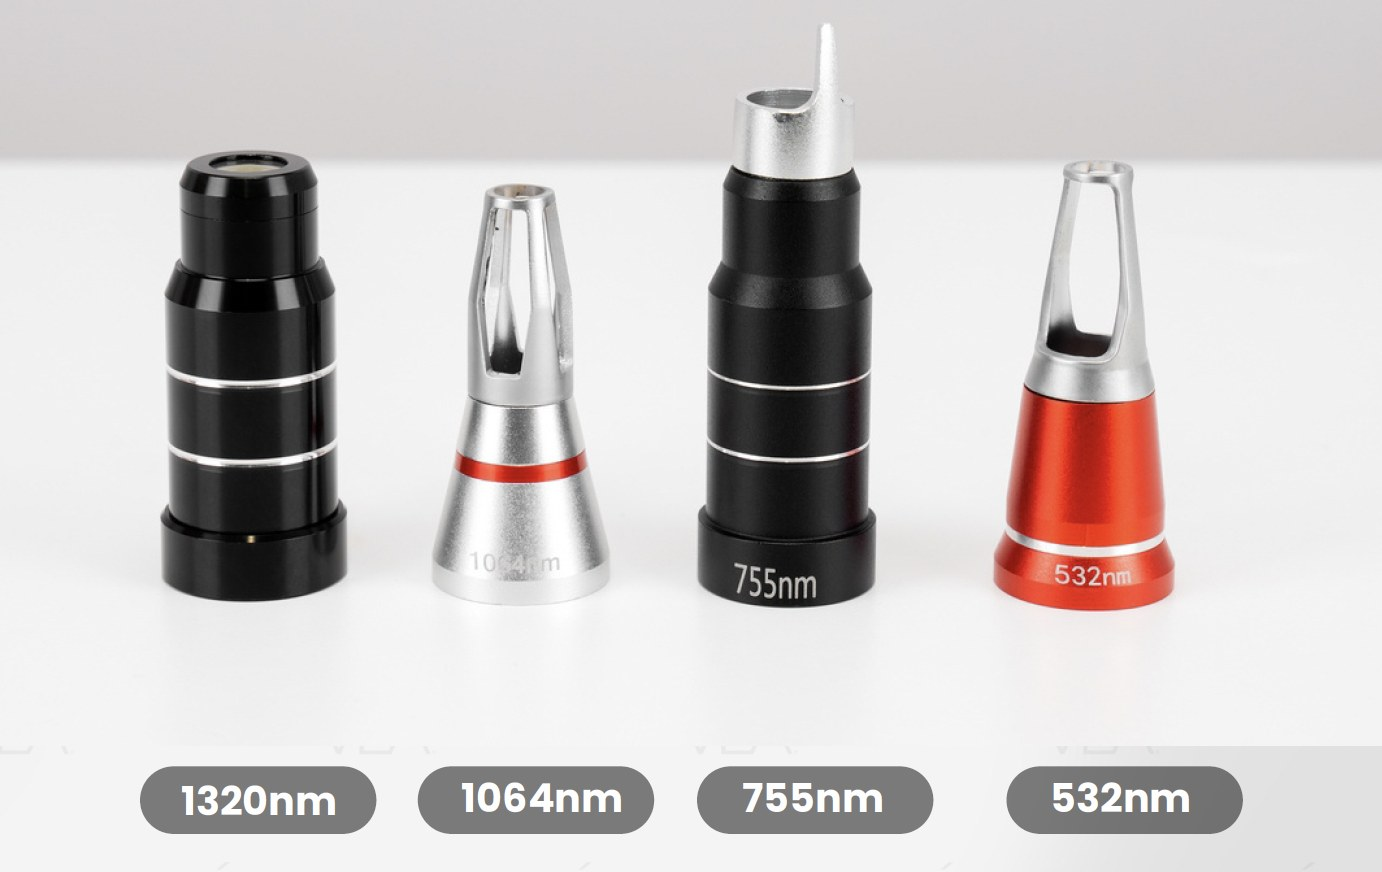
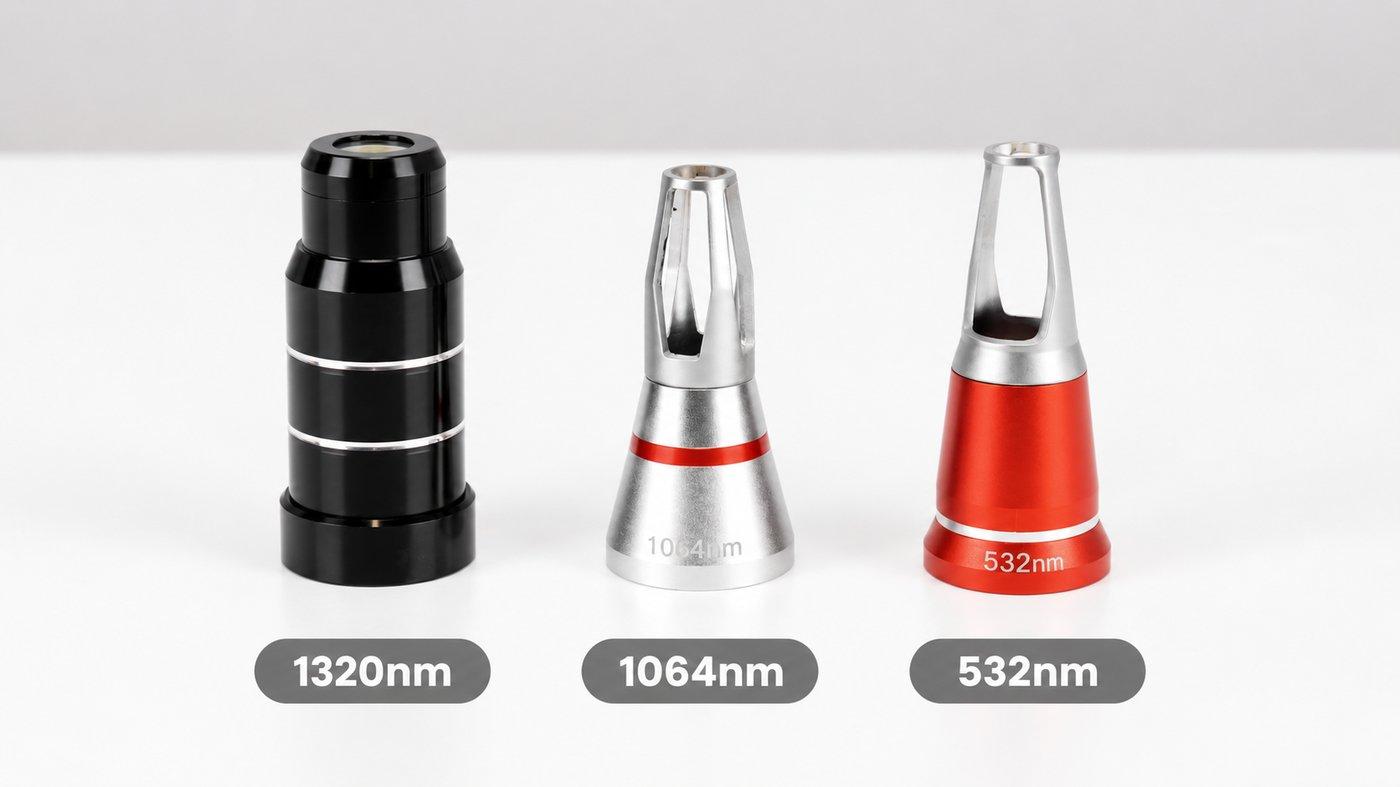
Add files via upload

diff --git a/index.html b/index.html
@@ -106,8 +106,8 @@
       </div>
       <div class="hero-visual reveal reveal-delay-2">
         <div class="hero-visual-frame">
-          <div class="hero-visual-label"><span>Facial Express</span><span>Clinical Innovation Lab</span></div>
-          <img class="hero-portfolio-img" src="hero-portfolio.jpg" alt="Tratamiento real con tecnología VÉA en Facial Express" width="1122" height="1402" loading="eager">
+          <div class="hero-visual-label"><span>Tres tecnologías</span><span>Un mismo criterio clínico</span></div>
+          <img class="hero-portfolio-img" src="home-hero.jpg" alt="Portafolio VÉA Medical: VÉA Intelligence, VÉA Skin y VÉA Pigment" width="980" height="1225" loading="eager">
         </div>
       </div>
     </div>
@@ -121,7 +121,7 @@
       </div>
       <div class="product-grid">
         <article class="product-card">
-          <figure><img src="product-intelligence.jpg" alt="VÉA Intelligence" loading="lazy"></figure>
+          <figure><img src="home-intelligence.jpg" alt="VÉA Intelligence" loading="lazy"></figure>
           <div class="product-body">
             <span class="num">01</span>
             <h3>VÉA Intelligence</h3>
@@ -130,7 +130,7 @@
           </div>
         </article>
         <article class="product-card">
-          <figure><img src="product-skin.jpg" alt="VÉA Skin — SKIN BOOST" loading="lazy"></figure>
+          <figure><img src="home-skin.jpg" alt="VÉA Skin — SKIN BOOST" loading="lazy"></figure>
           <div class="product-body">
             <span class="num">02</span>
             <h3>VÉA Skin</h3>
@@ -139,7 +139,7 @@
           </div>
         </article>
         <article class="product-card">
-          <figure><img src="product-pigment.jpg" alt="VÉA Pigment" loading="lazy"></figure>
+          <figure><img src="home-pigment.jpg" alt="VÉA Pigment" loading="lazy"></figure>
           <div class="product-body">
             <span class="num">03</span>
             <h3>VÉA Pigment</h3>

diff --git a/tecnologia-pigment.html b/tecnologia-pigment.html
@@ -121,7 +121,7 @@
       <div style="max-width:56em; margin-top:2rem;">
         <span class="subhead">Una plataforma, múltiples cabezales</span>
         <figure class="wavelength-figure">
-          <img src="vea-pigment-cabezales.jpg" alt="Cabezales intercambiables de VÉA Pigment: 1320nm, 1064nm, 755nm y 532nm">
+          <img src="vea-pigment-cabezales.jpg" alt="Cabezales intercambiables de VÉA Pigment: 1320nm, 1064nm y 532nm">
         </figure>
         <div class="wavelength-grid">
           <div class="wavelength-card"><span class="nm">1064 nm</span><p>Pigmentos negros, azules y grises.</p></div>
